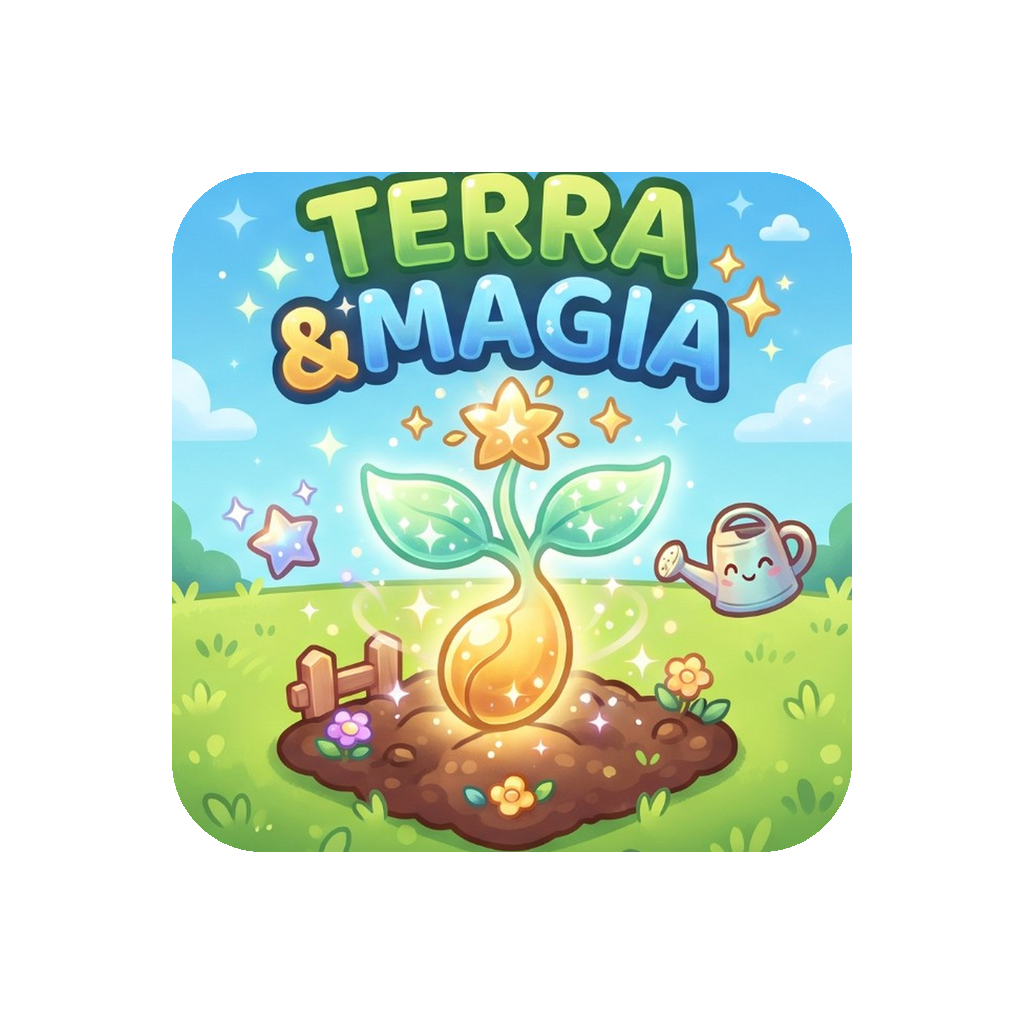
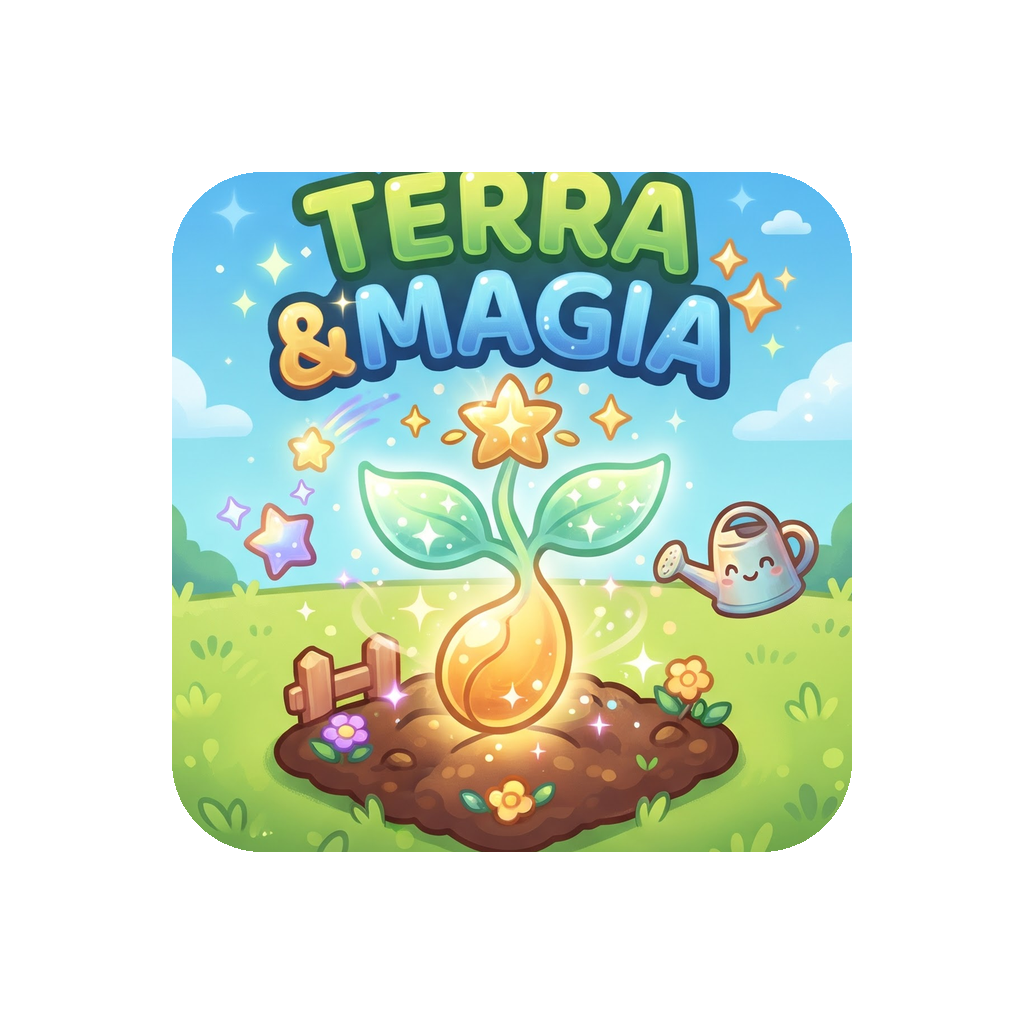
Ícone refeito a partir do arquivo original

diff --git a/docs/00-passos.md b/docs/00-passos.md
@@ -8,7 +8,7 @@ Regras: inspirado na fazenda do Orkut, mas tudo original (nome, arte, personagen
 
 ## 1. Definir o jogo
 
-- ✅ Nome e ícone: Terra & Magia (ícone veio de um print; falta o arquivo original de 1024 px)
+- ✅ Nome e ícone: Terra & Magia
 - ✅ Dia a dia: plantar, regar, colher, vender e crescer o terreno
 - ✅ Lista de plantas com tempo, preço, venda e experiência (9 plantas, 3 mágicas) (2026-11-03)
 - ✅ Níveis: o que cada um libera (plantas novas e terreno de 4×4, 5×5 e 6×6) (2026-11-03)
@@ -37,12 +37,12 @@ Regras: inspirado na fazenda do Orkut, mas tudo original (nome, arte, personagen
 
 ## 5. Arte
 
-- ✅ Ícone do app no Android e no iPhone, recortado da arte enviada (2026-11-03)
+- ✅ Ícone do app no Android e no iPhone, refeito com o arquivo original (`arte-original/icone-original.jpg`, 2048 px) (2026-11-04)
 - ✅ Canteiros em pixel art recortados da cena da fazenda (`scripts/recortar-arte.py`): terra, grama, semente, broto, crescendo, murcha, tomate, milho e berinjela/abóbora prontos; topo da tela com céu, celeiro e cercas (2026-11-03)
 - ✅ Berinjela no lugar do morango, para ter desenho (2026-11-03)
 - ⬜ Arte da cenoura, do trigo e das 3 plantas mágicas (hoje: planta crescida com o emoji por cima)
 - ⬜ Arte das sementes na escolha (hoje: emoji)
-- ⬜ Arquivo original do ícone em 1024 px
+- ✅ Arquivo original do ícone (2026-11-04)
 
 ## 6. Servidor e contas
 

diff --git a/README.md b/README.md
@@ -4,7 +4,7 @@ Jogo de fazenda mágica para Android e iOS (Expo SDK 58, Expo Router, expo-sqlit
 
 - `src/dominio/`: regras puras (plantar, regar, colher, murchar, celeiro, níveis, terreno). O horário entra como parâmetro, para o servidor reaproveitar o mesmo código depois.
 - `src/app/`: telas (fazenda e celeiro).
-- `arte-original/`: print do ícone (falta o original de 1024 px) e a cena da fazenda em pixel art.
+- `arte-original/`: ícone original (2048 px) e a cena da fazenda em pixel art.
 - `scripts/recortar-arte.py`: recorta canteiros e o topo da cena para `assets/fazenda/` (`python3 scripts/recortar-arte.py`).
 
 ## Rodar
